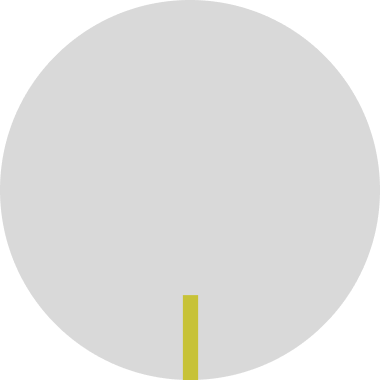
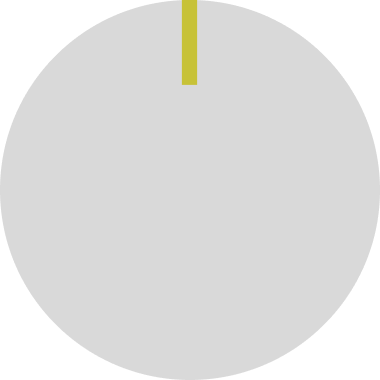
Replace slider with a custom knob.

Changed region(s): [[0.4632, 0.7526, 0.5211, 1.0], [0.4632, 0.0, 0.5211, 0.2316]]

diff --git a/YoudiVolume/Source/VolumeKnobLooknFeel.h b/YoudiVolume/Source/VolumeKnobLooknFeel.h
@@ -1,0 +1,47 @@
+/*
+  ==============================================================================
+
+    VolumeKnobLooknFeel.h
+    Created: 20 Nov 2024 12:57:51pm
+    Author:  Uditha
+
+  ==============================================================================
+*/
+
+#pragma once
+#include <JuceHeader.h>
+
+class VolumeKnobLooknFeel : public juce::LookAndFeel_V4
+{
+public:
+    VolumeKnobLooknFeel()
+        :imgVolumeKnob(juce::ImageCache::getFromMemory(BinaryData::Knob_png, BinaryData::Knob_pngSize))
+    {
+    }
+    void drawRotarySlider(juce::Graphics& g, int x, int y, int width, int height,
+        float sliderPosProportional, float rotaryStartAngle, float rotaryEndAngle,
+        juce::Slider& slider) override
+    {
+        // Calculate rotation angle
+        const float rotation = rotaryStartAngle + sliderPosProportional * (rotaryEndAngle - rotaryStartAngle);
+
+        // Center the knob image
+        const float centerX = x + width * 0.5f;
+        const float centerY = y + height * 0.5f;
+
+        // Scale the knob to fit within the bounds
+        const float scale = juce::jmin(width / (float)imgVolumeKnob.getWidth(), height / (float)imgVolumeKnob.getHeight());
+
+        // Apply rotation
+        juce::AffineTransform transform = juce::AffineTransform::translation(-imgVolumeKnob.getWidth() * 0.5f, -imgVolumeKnob.getHeight() * 0.5f)
+            .scaled(scale)
+            .rotated(rotation)
+            .translated(centerX, centerY);
+
+        // Draw the image with the above transformation
+        g.drawImageTransformed(imgVolumeKnob, transform, false);
+    }
+
+private:
+    juce::Image imgVolumeKnob;
+};

diff --git a/YoudiVolume/Source/PluginEditor.cpp b/YoudiVolume/Source/PluginEditor.cpp
@@ -13,7 +13,7 @@
 YoudiVolumeAudioProcessorEditor::YoudiVolumeAudioProcessorEditor (YoudiVolumeAudioProcessor& p, juce::AudioProcessorValueTreeState& valueTree)
     : AudioProcessorEditor (&p), audioProcessor (p)
     , apvts(valueTree)
-    , sldVolume(juce::Slider::SliderStyle::RotaryHorizontalVerticalDrag,juce::Slider::TextEntryBoxPosition::TextBoxBelow)
+    , sldVolume(juce::Slider::SliderStyle::RotaryHorizontalVerticalDrag,juce::Slider::TextEntryBoxPosition::NoTextBox)
     , imgPluginBg(juce::ImageFileFormat::loadFrom(
         juce::MemoryInputStream(BinaryData::Background_png,
             BinaryData::Background_pngSize,
@@ -23,6 +23,9 @@ YoudiVolumeAudioProcessorEditor::YoudiVolumeAudioProcessorEditor (YoudiVolumeAud
     // editor's size to whatever you need it to be.
     setSize (dimensions::pluginWidth, dimensions::pluginHeight);
 
+    volKnobLooknFeel = std::make_unique<VolumeKnobLooknFeel>();
+    sldVolume.setLookAndFeel(volKnobLooknFeel.get());
+
     addAndMakeVisible(sldVolume);
 
     attchVolume.reset(new juce::AudioProcessorValueTreeState::SliderAttachment(apvts, parameters::volume.id, sldVolume));
@@ -30,6 +33,7 @@ YoudiVolumeAudioProcessorEditor::YoudiVolumeAudioProcessorEditor (YoudiVolumeAud
 
 YoudiVolumeAudioProcessorEditor::~YoudiVolumeAudioProcessorEditor()
 {
+    sldVolume.setLookAndFeel(nullptr);
 }
 
 //==============================================================================

diff --git a/YoudiVolume/Source/PluginEditor.h b/YoudiVolume/Source/PluginEditor.h
@@ -10,6 +10,7 @@
 
 #include <JuceHeader.h>
 #include "PluginProcessor.h"
+#include "VolumeKnobLooknFeel.h"
 
 //==============================================================================
 /**
@@ -39,6 +40,9 @@ private:
 
     //Background Image
     juce::Image imgPluginBg;
+
+    //Knob Look and Feel
+    std::unique_ptr<VolumeKnobLooknFeel> volKnobLooknFeel;
 
     JUCE_DECLARE_NON_COPYABLE_WITH_LEAK_DETECTOR (YoudiVolumeAudioProcessorEditor)
 };

diff --git a/YoudiVolume/Source/Config.h b/YoudiVolume/Source/Config.h
@@ -23,7 +23,7 @@ namespace parameters
         const float defaultValue;
     };
 
-    static const audioParameterFloat volume{"volume", "Volume", 0.0f, 1.0f, 0.5f};
+    static const audioParameterFloat volume{"volume", "Volume", 0.0f, 1.0f, 0.0f};
 };
 
 namespace dimensions
